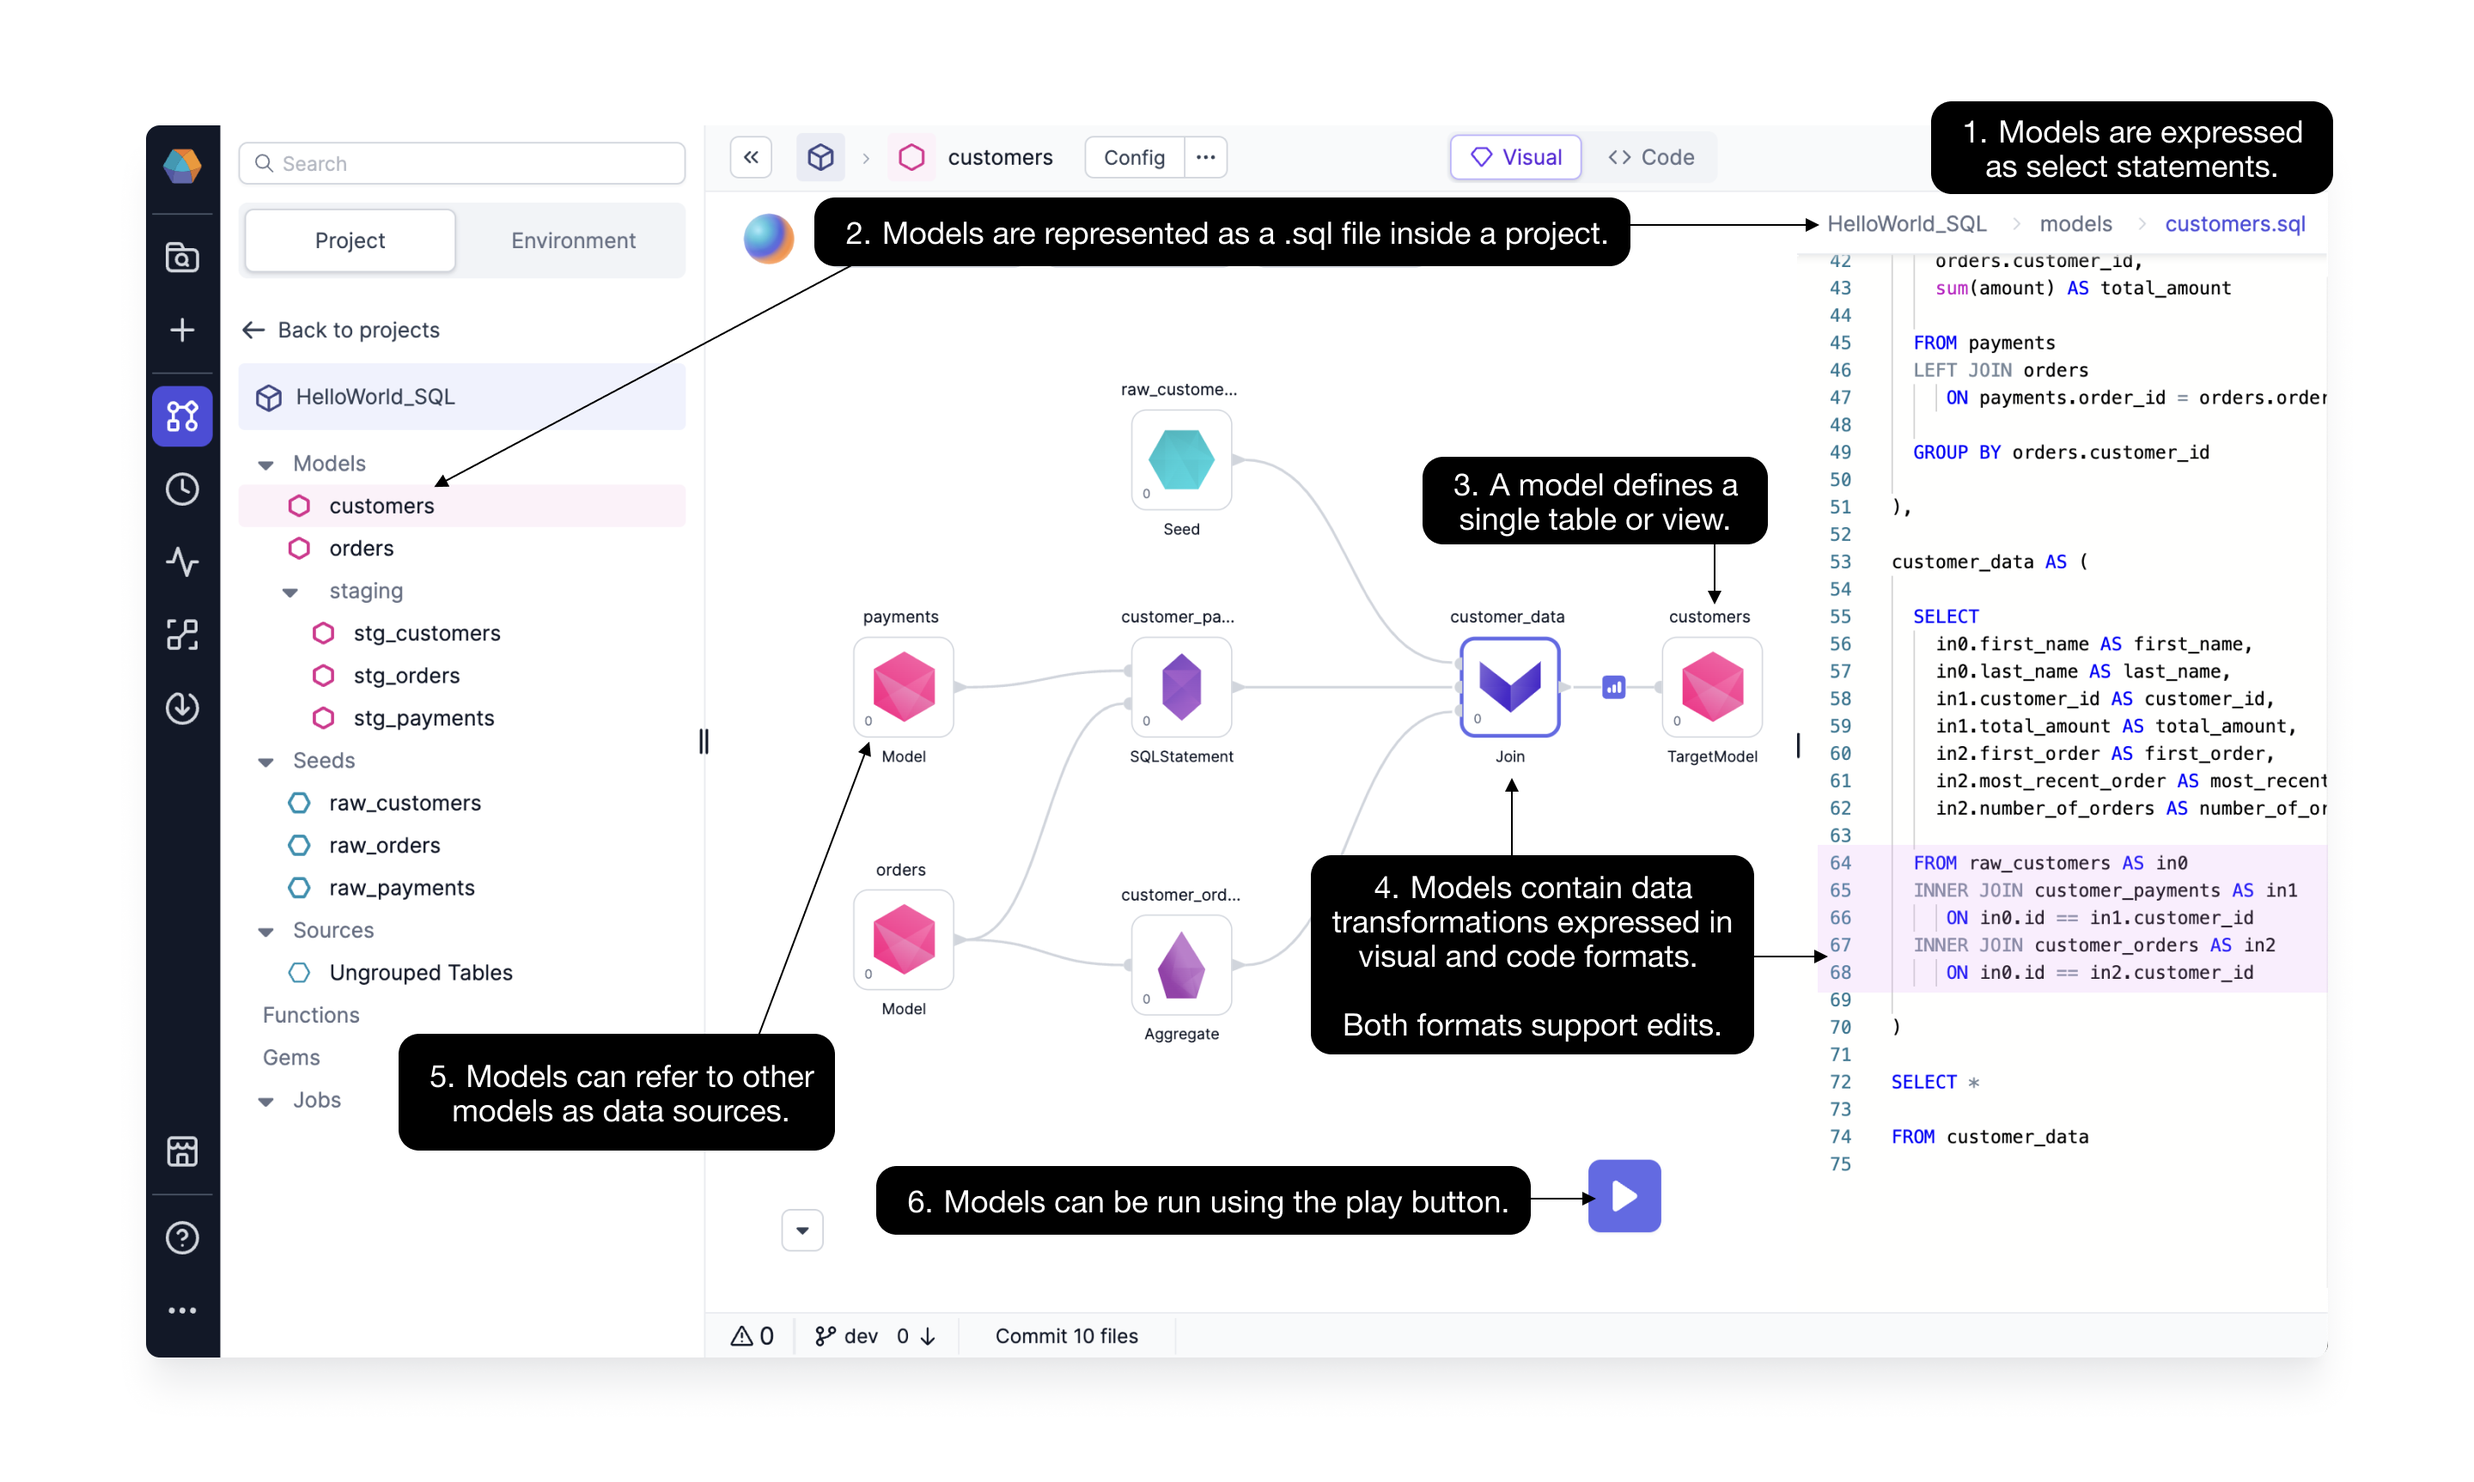
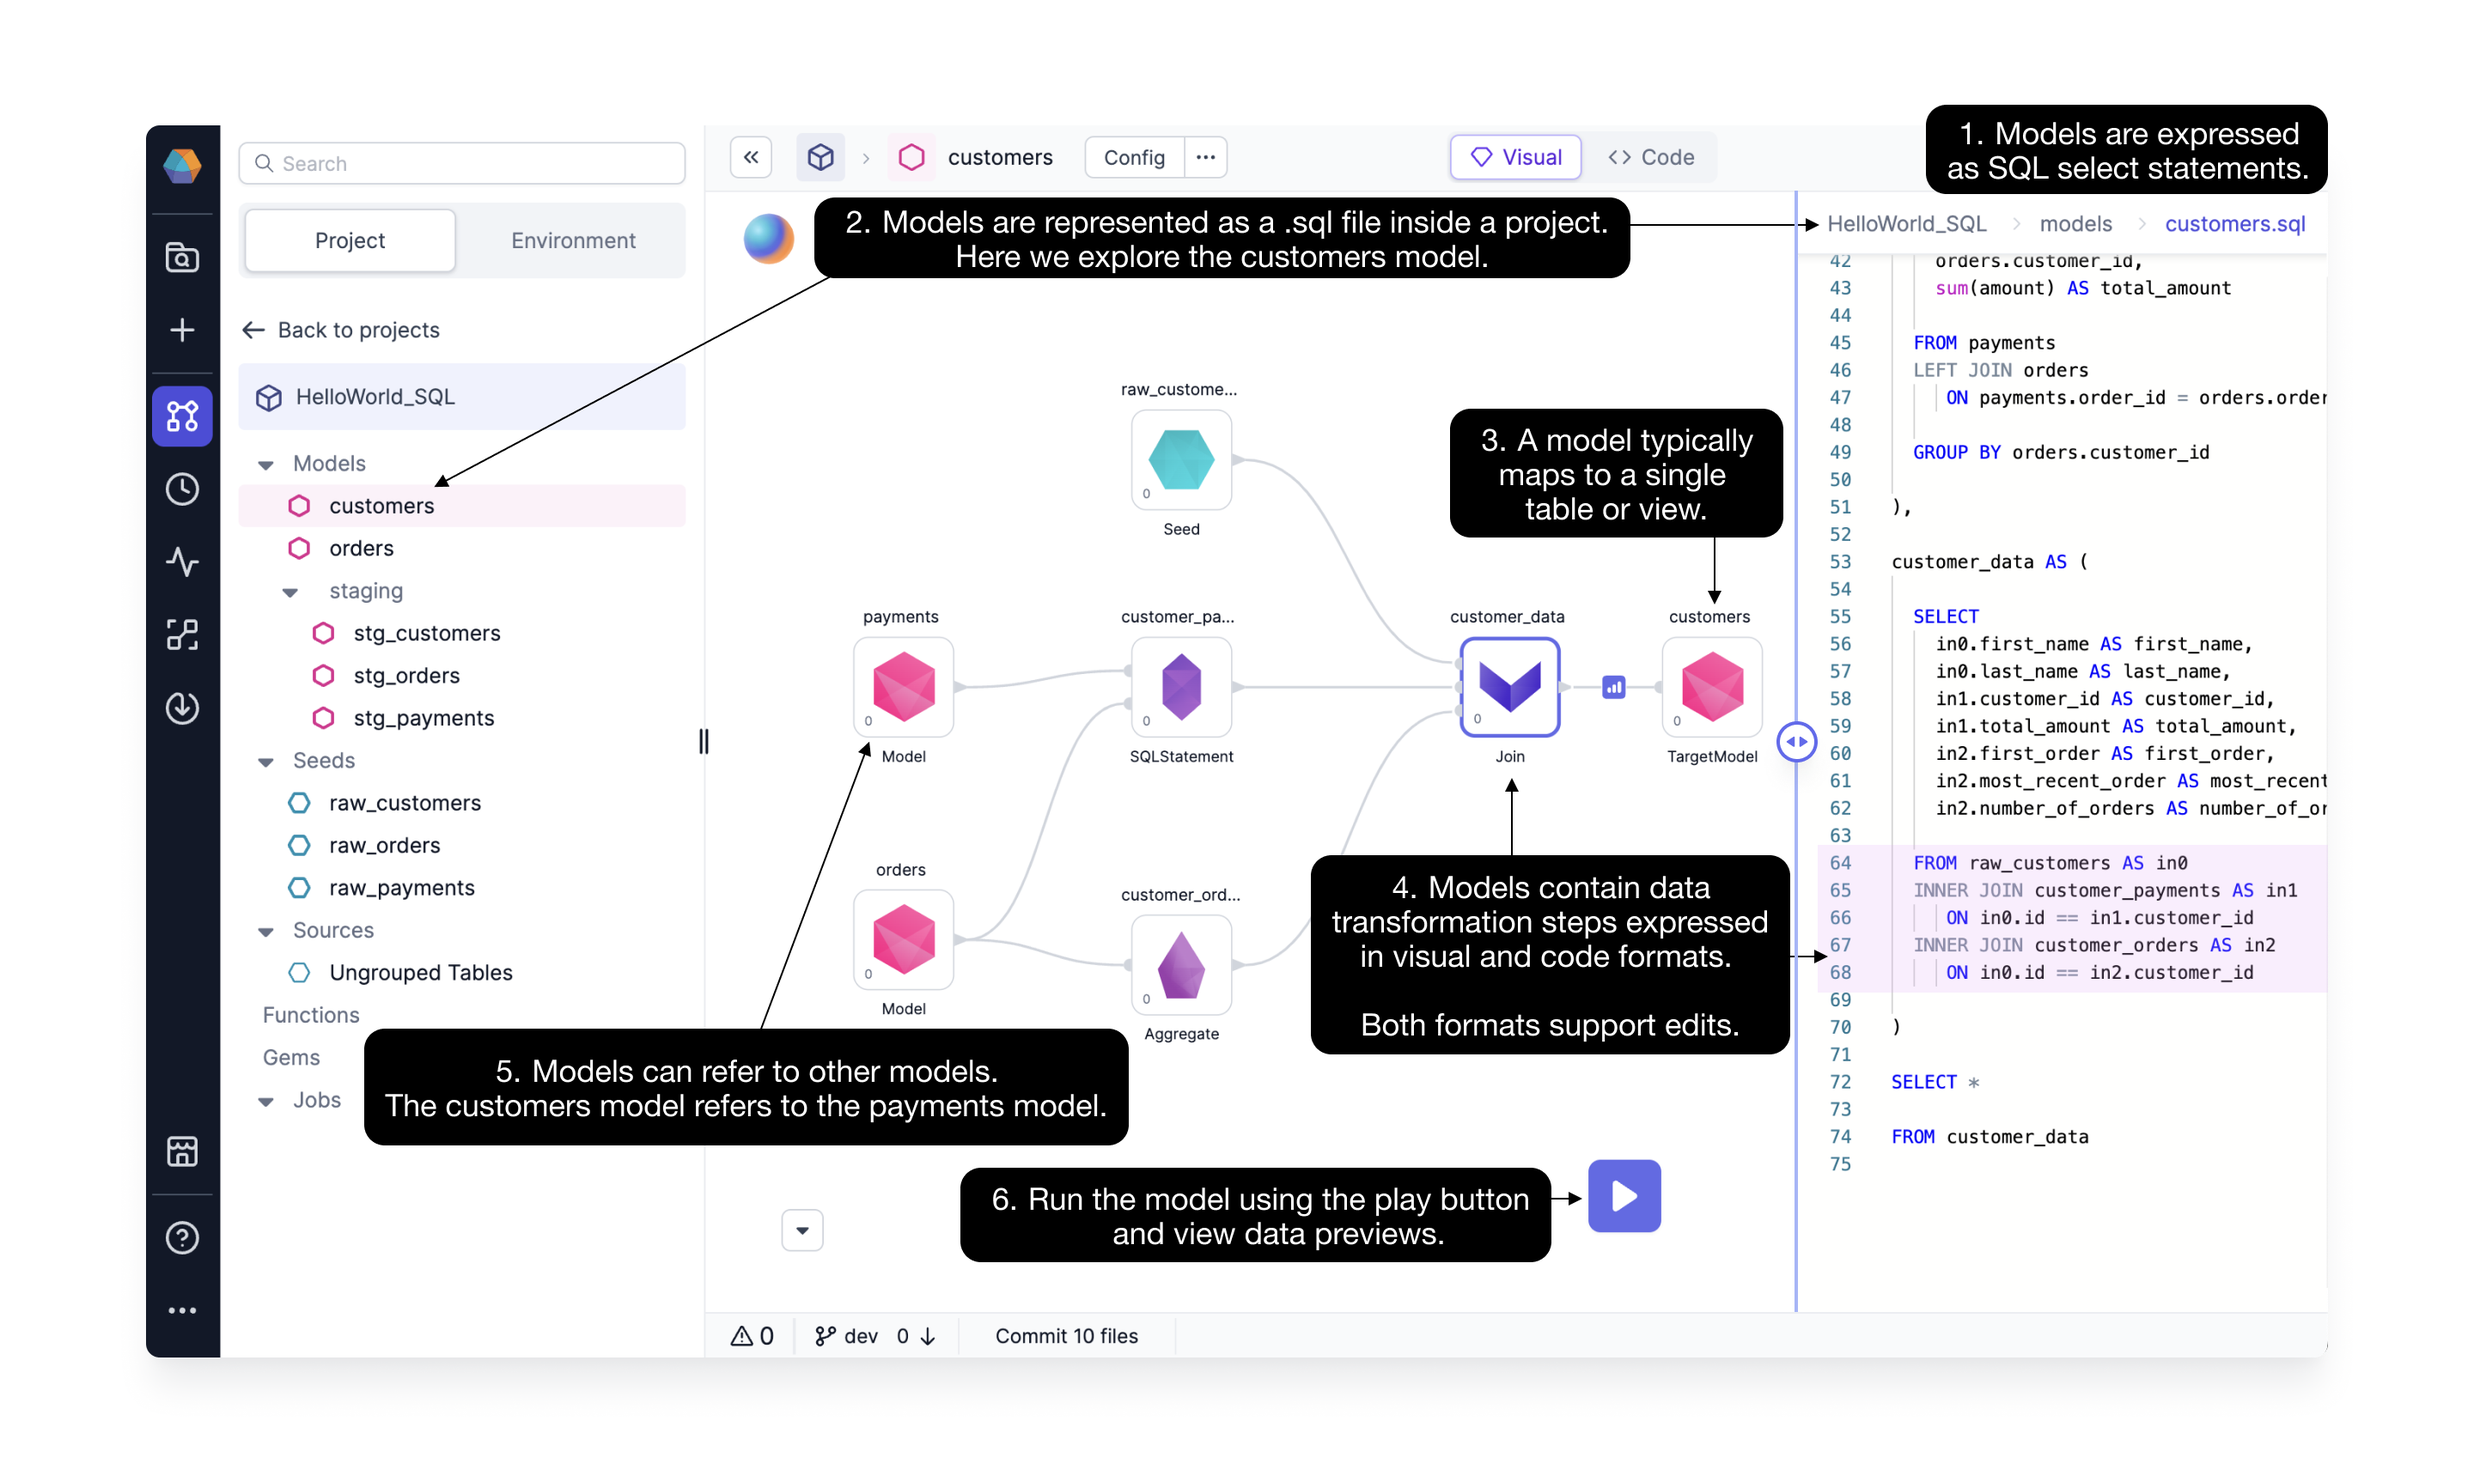
adjusted the intro based on the DBT models video

diff --git a/docs/concepts/models/models.md b/docs/concepts/models/models.md
@@ -10,20 +10,26 @@ tags:
   - target
 ---
 
-Prophecy has forever transformed the way data engineers and analysts will interact and interface with their data manipulations. But we didn't need to invent a data modeling concept - Prophecy adopts the well-defined dbt Core™ data [models](https://docs.getdbt.com/docs/build/models).
+**Data modeling** refers to the shaping of your data from the raw state all the way to a transformed final state. Data engineers are typically responsible for building tables that represent source data, transforming the data and saving as intermediate tables/views, and building final tables that can be queried by a BI tool and drive decision making for an organization.
 
-### What is a model, and how do I use a model in Prophecy?
+In Prophecy and dbt, **data models** are SQL select statements that represent the step-by-step logic to transform raw data to some intermediate or final state. These SQL select statements are stored in your Github repository project as `.sql` files. Each Model corresponds to a single table or view, aside from some advanced materialization cases.
 
-Models are **(1)expressed** as `select` statements and **(2)stored** as `.sql` files within a project. Each model defines a **(3)single** table or view.
+Check out this getting started [guide](/docs/getting-started/getting-started-with-low-code-sql.md) for step-by-step instructions on working with low-code SQL in Prophecy. Here we focus specifically on Models.
 
+### Using Models in Prophecy
+
+Prophecy displays Models using the visual and code views; the `customers` model is shown in the figure below.
 ![models-overview](./img/models-overview.png)
-For example, the `customers` model is a SQL statement stored in the `customers.sql` file and defines the `customers` table. Models contain data transformations which are expressed in **(4)both visual and code** formats. Importantly, the visual and code formats are editable interchangeably, as illustrated [here.](/docs/low-code-sql/low-code-sql.md)
 
-Model names are inherited from the `.sql` filename. Models can be nested within subdirectories. One model can **(5)refer** to another model; here the `customers` model refers to the `payments` model. The `payments` model defines a table, like an input datasource.
+Toggle to the code view to find the **(1)SQL select statement** for the `customers` model. The customers Model is stored inside the HelloWorld_SQL Project, in the `Models` directory, and has a `.sql` file extension. Typically, a Model corresponds to a single table or view. **(3)Here,** the `customers` model maps to the `customers` table; just click to configure as a view.
+
+Models contain data transformations which are expressed in **(4)both visual and code** formats. Here the `Join` step is represented visually as a `Join` Gem and in code as the highlighted statement. By popular demand, the visual and code formats are editable interchangeably, as illustrated [here.](/docs/low-code-sql/low-code-sql.md) Visual developers and SQL coders can work together in the same project, and both types of edits are incorporated to the project when committed and merged to the main branch. See [this page](/docs/metadata/git.md#how-to-commit-changes) to understand the commit and release process.
+
+One model can **(5)refer** to another model; here the `customers` model refers to the `payments` model. The `payments` model defines a table as an earlier step in the data processing flow. Like Pipelines, Models can be **(6)run** using the play buttons and data previews are available.
 
 ### Models vs Pipelines
 
-If you’re already familiar with Prophecy Pipelines, models are very similar. Like Pipelines, Models can be **(6)run** using the play buttons. The major difference is that each Pipeline can create an arbitrary number of outputs, whereas a model only defines one output. Where Pipeline’s can exist only within Spark-based projects, models’ can exist within SQL-based ones.
+If you’re already familiar with Prophecy Pipelines, models are very similar. The major difference is that each Pipeline can create an arbitrary number of outputs, whereas a model only defines one output. Where Pipeline’s can exist only within Spark-based projects, models can exist within SQL-based ones.
 
 Like Pipelines, Models can be configured, committed and released to [Git](/docs/metadata/git.md), according to software engineering best practices. More details on Model configuration coming soon!
 
